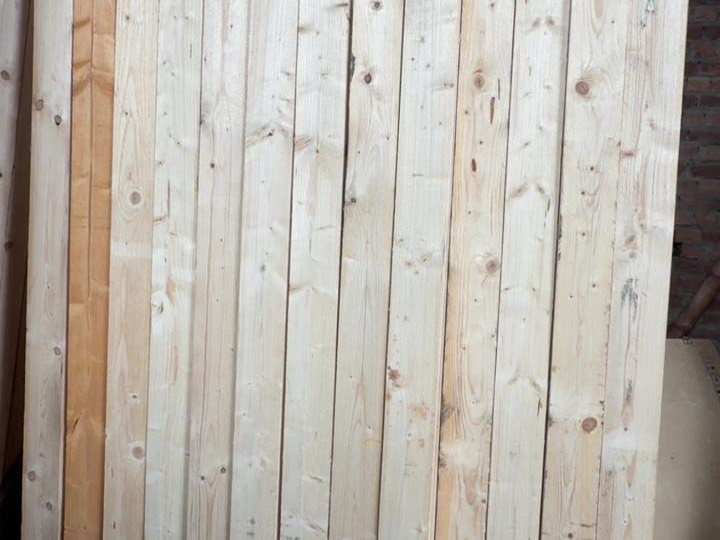
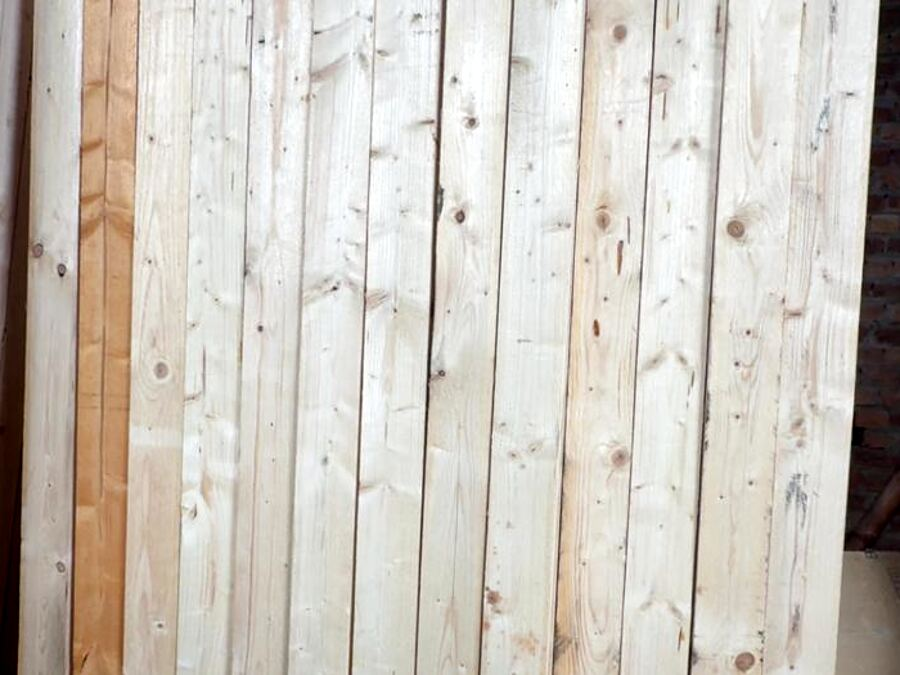
fix(ui): use clean product photography
Drops the two cluttered yard shots (motorcycle, rubble, brick walls in
frame) and re-crops the remaining four tight on the material itself.
Adds a colour cleanup pass — mild exposure/saturation lift, contrast
stretch, light unsharp — and raises output to 900px for retina cards.

Claude-Session: https://claude.ai/code/session_01KtHFgyGKeLhr48MRhvYUb2

diff --git a/components/sections/WhyChooseUs.tsx b/components/sections/WhyChooseUs.tsx
@@ -63,8 +63,8 @@ export function WhyChooseUs() {
             </p>
             <div className="relative aspect-[4/3] rounded-2xl overflow-hidden border border-cream-dark/30">
               <Image
-                src="/images/timber-yard-lahore.jpg"
-                alt="Timber stacked at the Lala G yard on Ravi Road, Lahore"
+                src="/images/timber-poles-lahore.jpg"
+                alt="Bundled timber poles in stock at Lala G Timber Merchant, Lahore"
                 fill
                 className="object-cover"
                 sizes="(max-width: 1024px) 100vw, 40vw"

diff --git a/app/page.tsx b/app/page.tsx
@@ -83,7 +83,7 @@ export default function Home() {
       {/* Stats Section */}
       <section className="relative py-16 lg:py-20 overflow-hidden">
         <Image
-          src="/images/timber-stack-lahore.jpg"
+          src="/images/timber-planks-lahore.jpg"
           alt=""
           aria-hidden="true"
           fill
